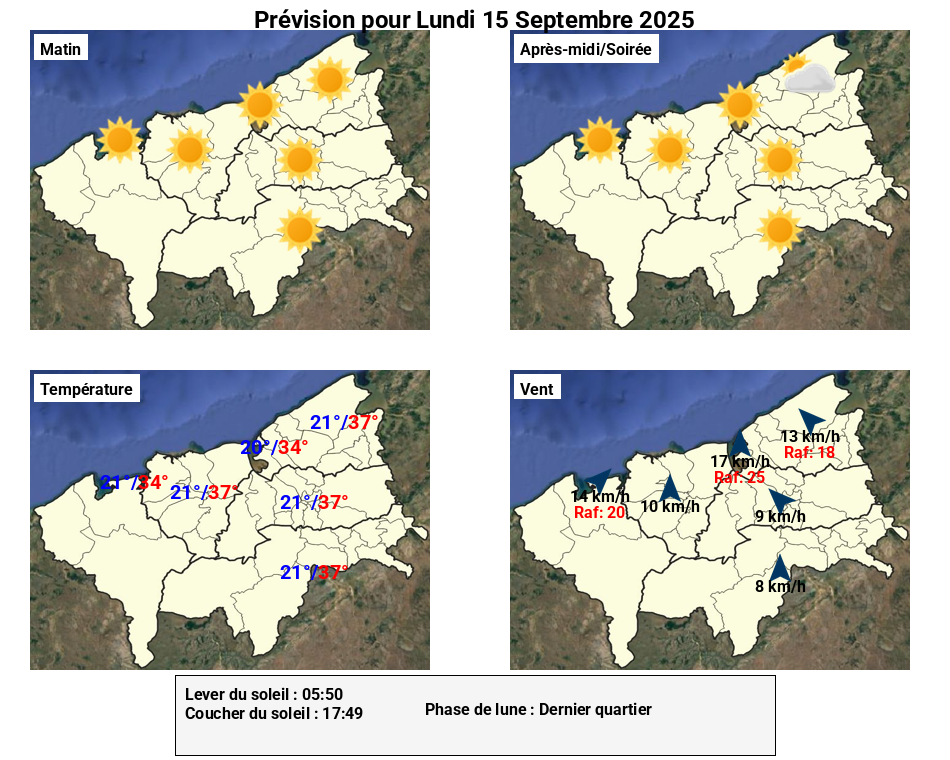
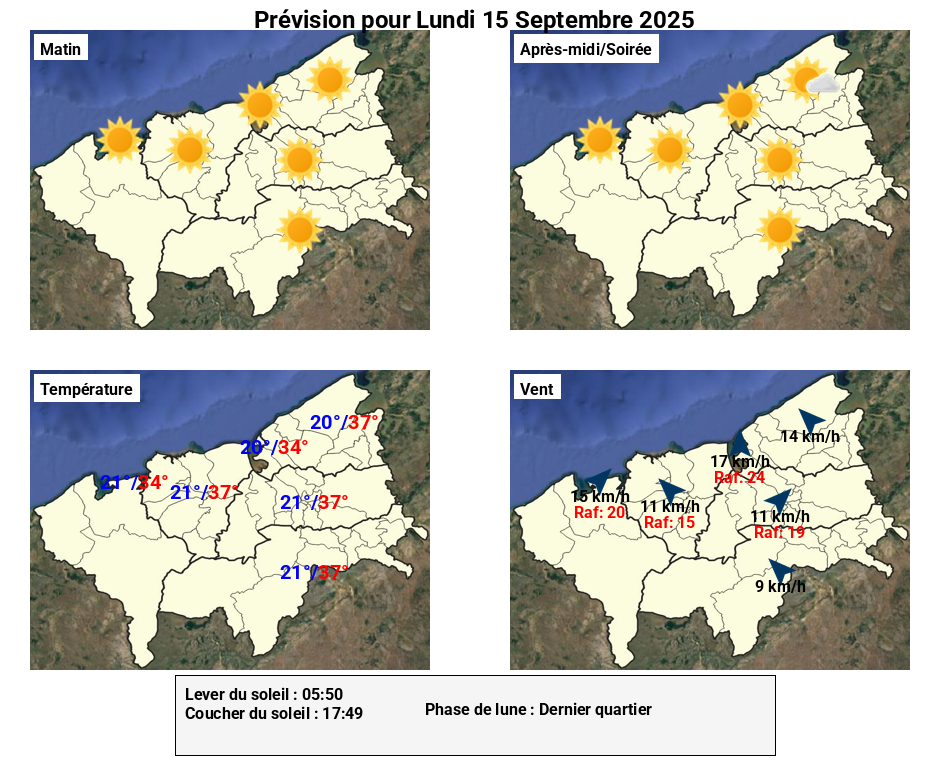
Daily forecast sync: Sun Sep 14 02:53:36 UTC 2025

diff --git a/assets/js/script.js b/assets/js/script.js
@@ -189,18 +189,18 @@ NEANT.
 
 
     const templates = [
-    `Temps ensoleillé et ciel dégagé sur l'ensemble de la région Boeny, notamment sur Soalala et Mitsinjo à l'Ouest, Marovoay et AmbatoBoeny dans les parties intérieures, ainsi que Mahajanga I et II à l'Est.
-**Vents** : Vents faibles à modérés de secteur Sud-Est, avec des vitesses moyennes de 9 à 20 km/h et des rafales atteignant 24 km/h.
-**Températures minimales** : entre 20 et 24 °C
-**Températures maximales** : entre 34 et 37 °C`,
-    `Journée principalement ensoleillée sur l'ensemble de la région Boeny, avec quelques nuages l'après-midi sur Marovoay et Mitsinjo.
-**Vents** : Vents faibles à modérés de secteur Est à Sud-Est (9 à 19 km/h), avec des rafales pouvant atteindre 25 km/h.
-**Températures minimales** : entre 18 et 21 °C
-**Températures maximales** : entre 33 et 37 °C`,
-    `Le temps sera majoritairement ensoleillé et dégagé sur l'ensemble de la région Boeny, avec quelques passages nuageux l'après-midi sur MahajangaII.
-**Vents** : Vents faibles à modérés, majoritairement de secteur Sud-Est (entre 8 et 17 km/h), avec des rafales pouvant atteindre 25 km/h.
+    `Le temps sera largement ensoleillé sur l'ensemble de la région, avec l'apparition de quelques nuages l'après-midi sur les localités intérieures comme Marovoay et AmbatoBoeny, ainsi que sur Mitsinjo.
+**Vents** : Vents faibles à modérés de secteur Sud-Est (9 à 21 km/h), avec des rafales pouvant atteindre 20 km/h.
+**Températures minimales** : entre 20 et 23 °C
+**Températures maximales** : entre 32 et 37 °C`,
+    `Le temps sera très ensoleillé sur l'ensemble de la région Boeny, avec un ciel dégagé à peu nuageux l'après-midi, notamment sur MahajangaII à l'Est.
+**Vents** : Vents faibles à modérés (9 à 17 km/h), avec des rafales pouvant atteindre 24 km/h. Ils souffleront majoritairement de secteur Sud-Est à Sud-Sud-Est, virant au Sud-Ouest sur l'Ouest de la région (Soalala, Marovoay).
 **Températures minimales** : entre 20 et 21 °C
-**Températures maximales** : entre 34 et 37 °C`
+**Températures maximales** : entre 34 et 37 °C`,
+    `Ciel dégagé le matin sur l'ensemble de la région Boeny, devenant peu nuageux l'après-midi sur Mitsinjo, Marovoay, AmbatoBoeny et MahajangaII.
+**Vents** : Vents faibles à modérés de secteur Sud-Est à Sud-Ouest (11 à 19 km/h), avec des rafales atteignant 24 km/h.
+**Températures minimales** : entre 22 et 23 °C
+**Températures maximales** : entre 34 et 38 °C`
 ];
 
 
